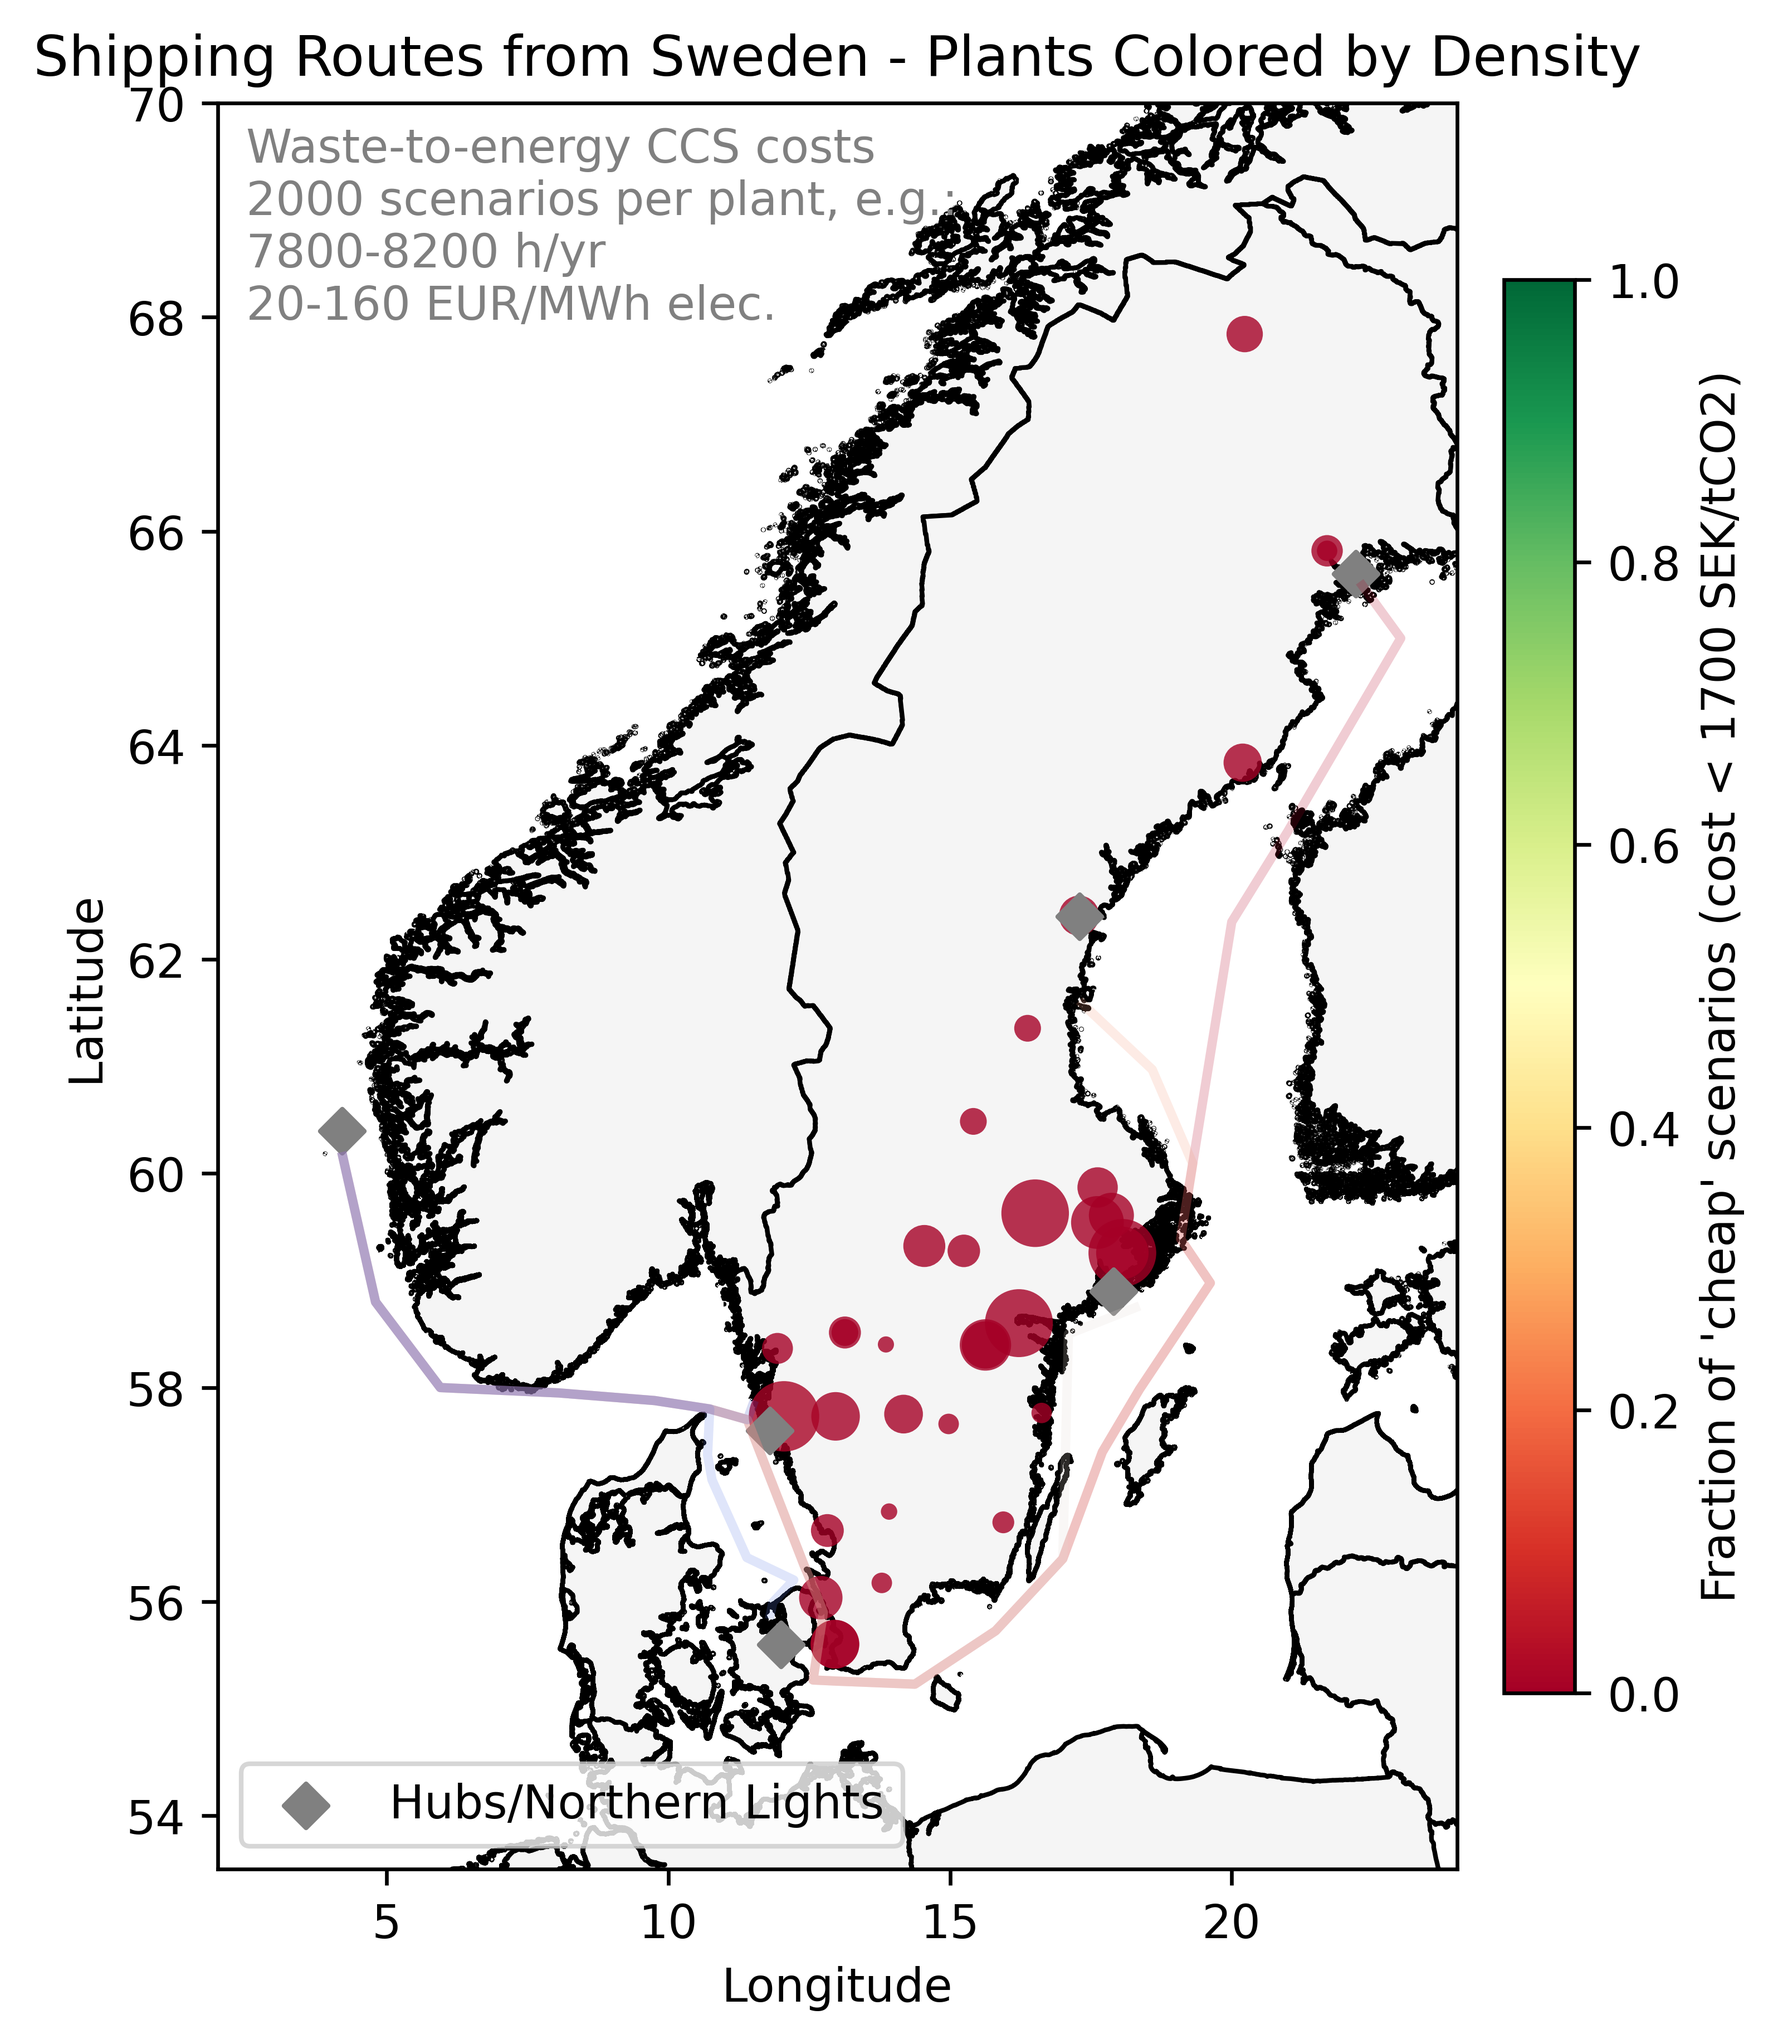
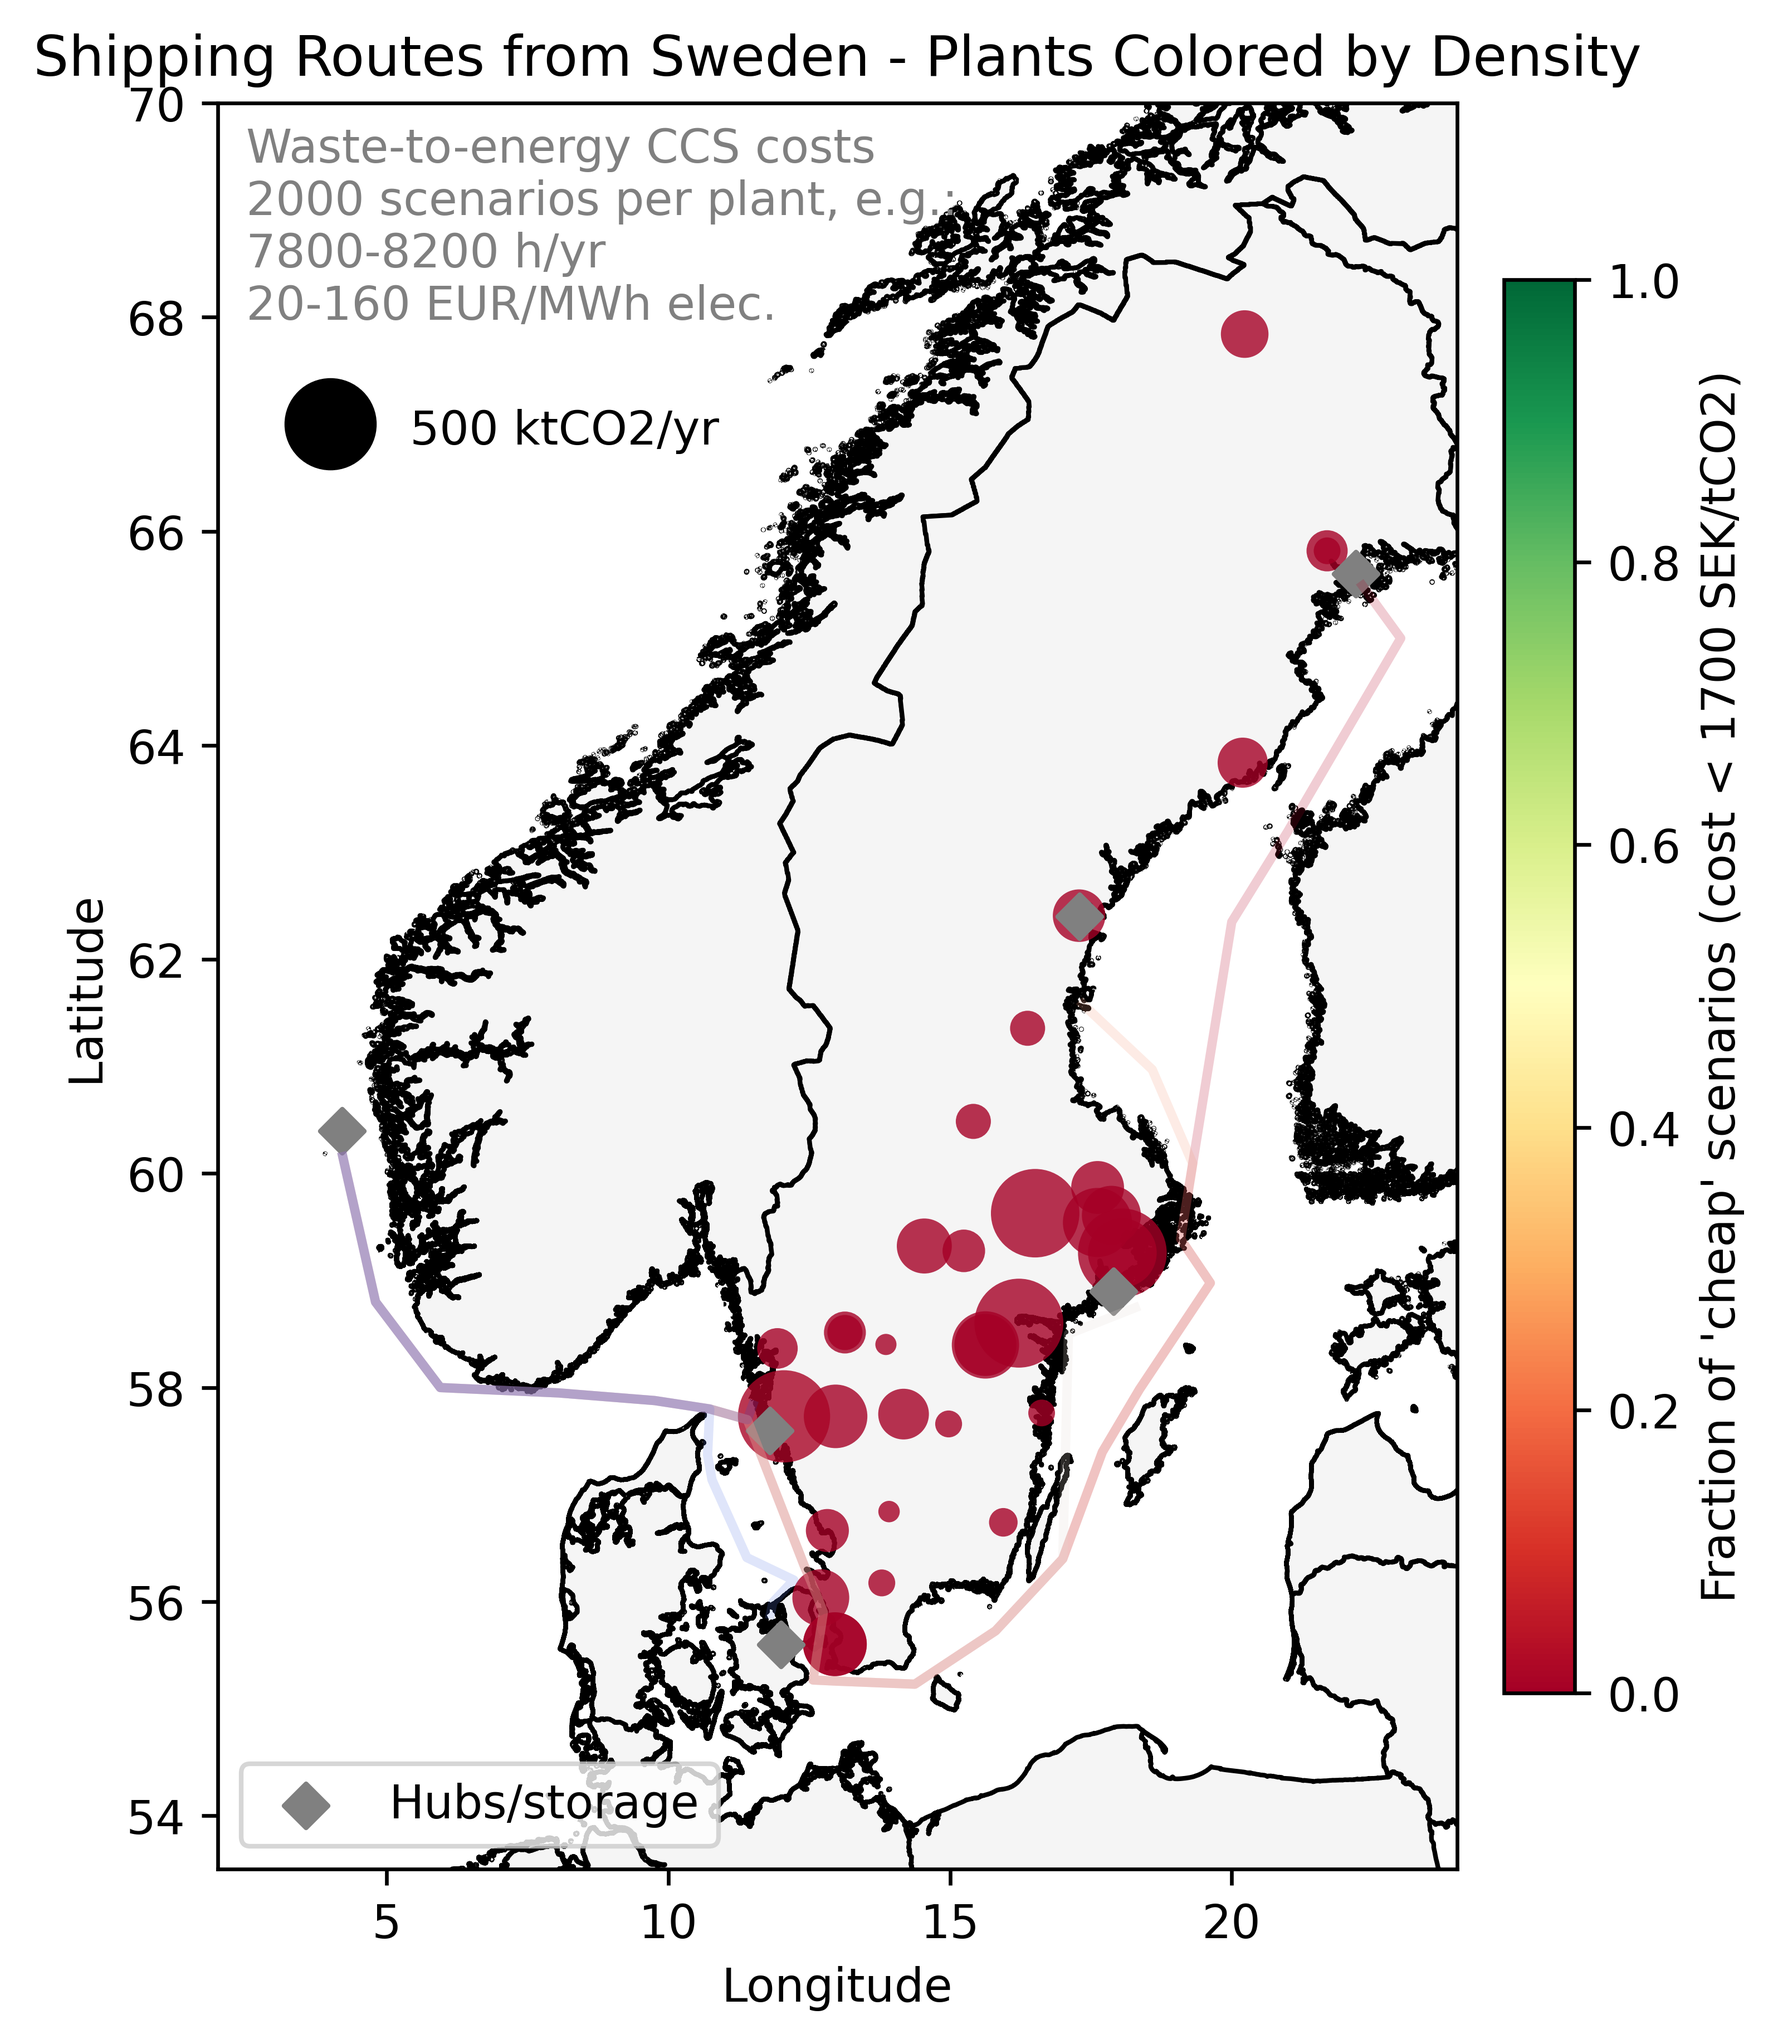
More mapping edits

diff --git a/mapping.py b/mapping.py
@@ -71,12 +71,31 @@ cmap_density = cm.RdYlGn  # Colormap for density
 # Scatter plot for plants, colored by density
 scatter = ax.scatter(
     plants["Longitude"], plants["Latitude"], linewidths=0,
-    s=plants["Size"]*1.4, c=density_values, cmap=cmap_density, norm=norm_density, alpha=0.8
+    s=plants["Size"]*2.4, c=density_values, cmap=cmap_density, norm=norm_density, alpha=0.8
 )
+
+# CHANGE BELOW FOR WASTE vs BIO
+largest_plant = plants.loc[plants["Size"].idxmax()]
+print(largest_plant["mean_captured"], " ktCO2 emitted by largest plant")
+ax.scatter(
+    4, 67, 
+    s=largest_plant["Size"] * 2.4, 
+    color="black", linewidths=0, alpha=1
+)
+ax.annotate(
+    "500 ktCO2/yr", 
+    (5, 66.6), 
+    textcoords="offset points", xytext=(5, 5), ha='left', fontsize=10, color='black'
+)
+# sysav = plants[plants["Name"] == "Sjolunda 1 "]
+# ax.scatter(
+#     sysav["Longitude"], sysav["Latitude"], linewidths=0,
+#     s=sysav["Size"]*4, c=0.65, cmap=cmap_density, norm=norm_density, alpha=0.8
+# )
 
 # Plot Origins and Destinations
 for origin in origins:
-    ax.scatter(*origin[1:3], color="grey", marker="D", s=45, alpha=1, label="Hubs/Northern Lights" if origin == origins[0] else "")
+    ax.scatter(*origin[1:3], color="grey", marker="D", s=45, alpha=1, label="Hubs/storage" if origin == origins[0] else "")
 for destination in destinations:
     ax.scatter(*destination[1:3], color="grey", marker="D", s=45, alpha=1)
 
@@ -97,6 +116,7 @@ cbar.set_label("Fraction of 'cheap' scenarios (cost < 1700 SEK/tCO2)")
 # Display the legend
 plt.legend()
 ax.text(2.5, 69.78, "Waste-to-energy CCS costs\n2000 scenarios per plant, e.g.:\n7800-8200 h/yr\n20-160 EUR/MWh elec.", fontsize=10, color="grey", ha="left", va="top")
+# ax.text(2.5, 69.78, "Biomass-fired CCS costs\n2000 scenarios per plant, e.g.:\n4000-6000 h/yr\n20-160 EUR/MWh elec.", fontsize=10, color="grey", ha="left", va="top")
 
 plt.savefig("UNNAMED.png", dpi=600, bbox_inches="tight")
 plt.show()
